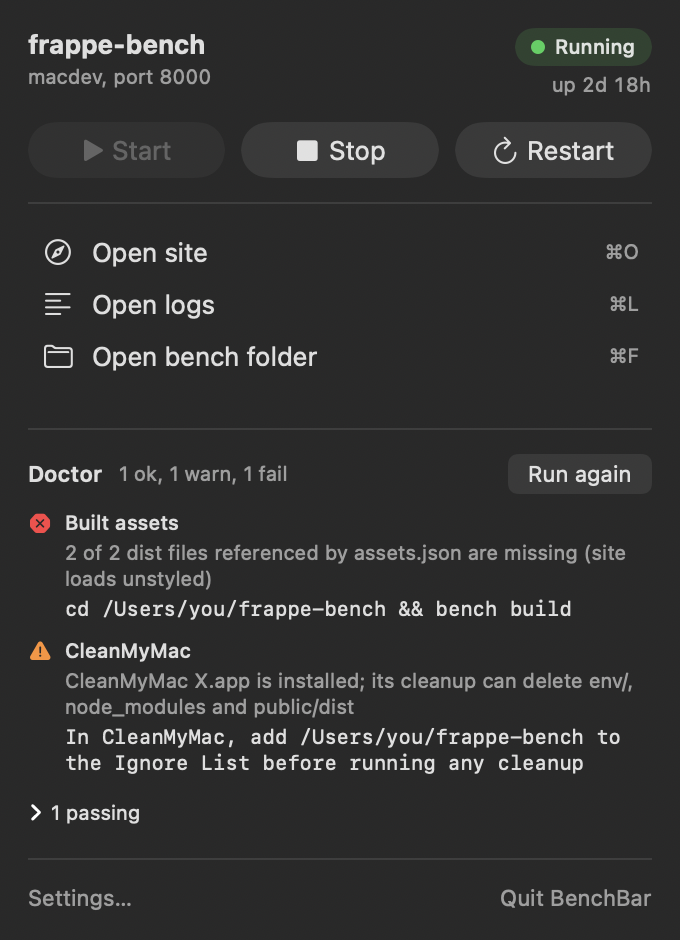
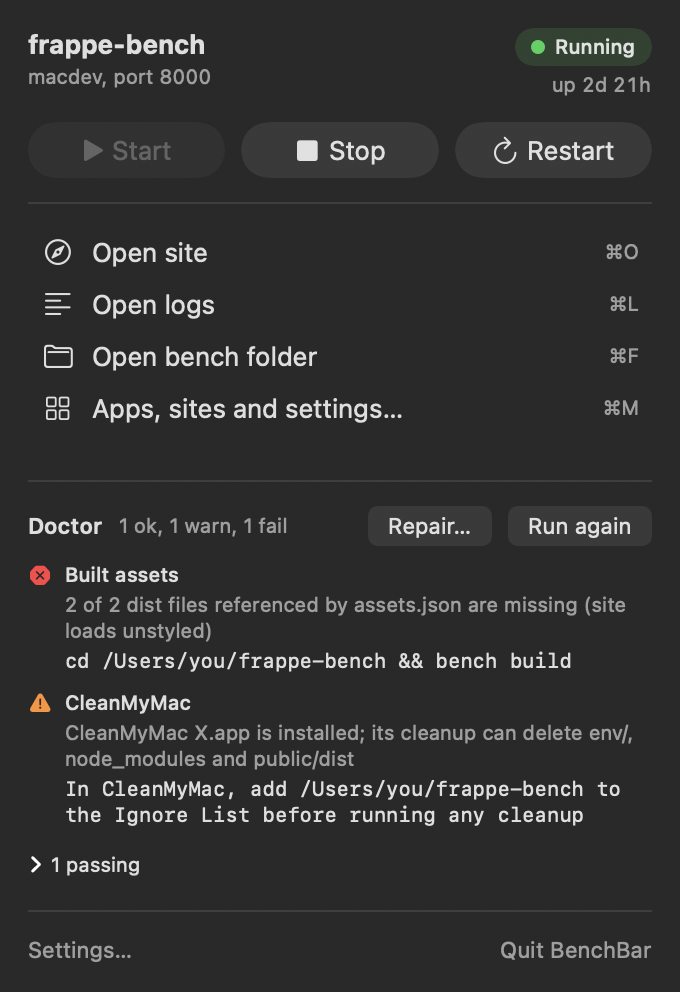
Release 0.5.0
Version 0.5.0 in the CLI and the app, the 0.5.0 changelog in one section, the roadmap, the tester guide with what to try in 0.5, README features and the app section with screenshots of the window and the icon, refreshed popover images.

diff --git a/README.md b/README.md
@@ -1,9 +1,12 @@
+<img src="docs/images/app-icon.png" width="96" alt="The BenchBar icon: a park bench on the run" align="right">
+
 # BenchBar
 
 Local Frappe and ERPNext development benches on macOS. The `benchbar`
 command line tool installs a bench, runs it in the background under
 launchd and keeps it healthy. The BenchBar menu bar app shows each bench
-as a small runner with start, stop and a health check one click away.
+as a small runner with start, stop and a health check one click away, and
+a window for each bench's sites, apps and health.
 
 [![CI](https://github.com/askysh/benchbar/actions/workflows/ci.yml/badge.svg)](https://github.com/askysh/benchbar/actions/workflows/ci.yml)
 [![Release](https://img.shields.io/github/v/release/askysh/benchbar)](https://github.com/askysh/benchbar/releases/latest)
@@ -31,8 +34,20 @@ as a small runner with start, stop and a health check one click away.
 - **Existing benches welcome.** `benchbar adopt` registers a bench you
   already have without touching its apps, sites or databases.
 - **A menu bar app.** State at a glance, start, stop, restart, the site,
-  the logs, a read only doctor, and crash notifications. The app never
-  writes to a bench itself; it runs the CLI and reads its JSON.
+  the logs, a read only doctor, and crash notifications. The BenchBar
+  window adds a page per bench: sites, apps, doctor and Repair. The app
+  never writes to a bench itself; it runs the CLI and reads its JSON.
+- **Several benches side by side.** A v15 and a v16 bench, each with its
+  own ports, sites and scheduler, on one MariaDB.
+- **Apps from anywhere.** From the app registry or any GitHub repository,
+  private ones included (your SSH key or `gh` login), with a changelog
+  before every update.
+- **Made for teams.** A team profile sets up a new bench with your apps
+  and branches; the `benchbar.toml` lockfile keeps everyone's bench the
+  same; `benchbar pull` copies a production site into a local one, email
+  muted and scheduler paused.
+- **For coding agents.** `benchbar mcp` lets Claude Code, Cursor and
+  other agents read and drive your benches.
 - **Shell helpers.** `benchup`, `benchdown`, `benchrestart`,
   `benchstatus`, `benchlogs`, `benchwatch` and friends.
 - **Bug reports without secrets.** `benchbar report` writes a redacted
@@ -252,29 +267,49 @@ reports drift as a warning.
 The runner in the menu bar sleeps when the bench is stopped, walks while
 it starts, runs while it is up (faster when the bench is busy), stumbles
 when it crashes, and shows a question mark when the CLI is missing.
-Reduce Motion shows still poses. The BenchBar window (⌘, or "Apps, sites
-and settings…" in the popover) has a page per bench: add apps from the
-registry or any GitHub repository, add sites, change the default site,
-switch the scheduler, and run doctor and Repair with the plan shown
-first; team profiles and the app's own settings live there too.
-Click the runner for the popover: bench, site,
-state and uptime, Start, Stop, Restart, open the site, the logs or the
-bench folder, and a read only doctor. With more than one bench the runner
-shows the worst state of all of them, and the popover lists every bench
-with its own Start, Stop and Restart and an "n of m up" count; the
-selected bench lists its sites, each with an Open button. Settings has a
-scheduler switch per bench. Keyboard: ⌘U start, ⌘D stop,
-⌘R restart, ⌘O site, ⌘L logs, ⌘F folder, ⌘K doctor.
-bench folder, and a read only doctor. Keyboard: ⌘U start, ⌘D stop,
-⌘R restart, ⌘O site, ⌘L logs (a log window with search and a filter per
-process), ⌘F folder, ⌘K doctor.
+Reduce Motion shows still poses. With more than one bench it shows the
+worst state of all of them.
+
+Click it for the popover: bench, site, state and uptime, Start, Stop,
+Restart, open the site, the logs or the bench folder, and a read only
+doctor with Repair when something is repairable. With more than one
+bench the popover lists every bench with its own buttons and an "n of m
+up" count. Keyboard: ⌘U start, ⌘D stop, ⌘R restart, ⌘O site, ⌘L logs (a
+log window with search and a filter per process), ⌘F folder, ⌘K doctor,
+⌘M the BenchBar window.
+
+<p>
+  <img src="docs/images/window-overview.png" width="420" alt="The BenchBar window: a bench's overview with Start, Stop, Restart, its site and ports, and the scheduler switch">
+  <img src="docs/images/window-apps.png" width="420" alt="A bench's apps: branch, repository, the sites that have each app, Install and Update">
+</p>
+
+The BenchBar window (⌘M, "Apps, sites and settings…" in the popover, or
+open BenchBar again from Finder or Spotlight) has a page per bench:
+
+- **Overview**: start, stop, restart, the site and ports, and the
+  scheduler switch.
+- **Sites**: add a site (it asks for the Administrator password), make
+  one the default, open any of them.
+- **Apps**: add an app from the registry or any GitHub URL, install it on
+  a site, and update it after reading the changelog. Right click a bench
+  in the sidebar for its actions.
+- **Health**: doctor's checks, and Repair with its plan shown before
+  anything changes and each step as it runs.
+
+Above the benches: General (open at login, notifications, which
+`benchbar` the app runs, the keyboard shortcuts), Menu Bar (the runner,
+with a live preview and custom runners, see
+[docs/runners.md](docs/runners.md)), Team Profiles and About.
+
+<p>
+  <img src="docs/images/window-health.png" width="420" alt="A bench's health: doctor's warnings with their fixes, Run Doctor and Repair">
+  <img src="docs/images/window-general.png" width="420" alt="General settings: startup, notifications, the command line tool and keyboard shortcuts">
+</p>
 
 On first run the app looks for the CLI in `~/.local/bin/benchbar`, then in
 Homebrew's folders, and asks once with a file picker if it finds none.
 macOS asks whether BenchBar may send notifications; allow it for the
-crash alerts. Settings has two built in runners with a live preview,
-custom runners ([docs/runners.md](docs/runners.md)), launch at login,
-notifications and the CLI path.
+crash alerts.
 
 The app does not write plists, edit bench files, or run `bench`, `brew`
 or `launchctl`. Every button runs `benchbar ... --json` and reads the

diff --git a/CHANGELOG.md b/CHANGELOG.md
@@ -2,14 +2,17 @@
 
 All notable changes to this project are documented here.
 
-## 0.4.0 - 2026-09-26
+## 0.5.0 - 2026-09-26
 
-Frappe v16 is a first class profile, and more than one bench runs on the
-same Mac: each with its own ports, sites, settings and scheduler choice,
-side by side in the menu bar. Verified on a real Mac with a v15 and a v16
-bench running at once (docs/DECISIONS.md, "the v16 bench on a real Mac").
+BenchBar grows from a start and stop button into the place you run your
+benches from: a window with every bench's sites, apps and health, Repair
+from the app, a log window, apps from any GitHub repository (private
+ones too), team profiles and a lockfile for the whole team, `benchbar
+pull` for a production copy, and `benchbar mcp` for coding agents. A new
+app icon, and the window uses the macOS 27 tab style and Liquid Glass
+buttons (older macOS versions get the classic look).
 
-### Added (0.5)
+### Added: the app
 
 - **The BenchBar window** replaces the sparse Settings window: General,
   Menu Bar, Team Profiles and About, then a page per bench with Overview
@@ -19,19 +22,9 @@ bench running at once (docs/DECISIONS.md, "the v16 bench on a real Mac").
   site, update after a changelog preview) and Health (doctor, and Repair
   with the plan first and a live step list). The popover links into it
   (⌘M) and offers Repair when doctor found something repairable.
-
-- `benchbar mcp`: a Model Context Protocol server on stdio (stdlib only
-  Python) with `benchbar_list`, `benchbar_status`, `benchbar_doctor`,
-  `benchbar_logs_tail`, `benchbar_site_list`, `benchbar_up`,
-  `benchbar_down` and `benchbar_restart`, each backed by the CLI's JSON.
-- `benchbar logs --json` with `-nN` and `--process NAME`.
-
-### Added (0.5)
-
-- `benchbar repair --json` streams a plan, a step event per action and a
-  done event with the exit code; `--dry-run --json` prints only the plan.
-
-### Added (0.5)
+- A new app icon: the menu bar runner, a park bench on the run, drawn
+  for Icon Composer (`macos/BenchBar/Resources/AppIcon.icon`,
+  `scripts/app-icon.py`).
 
 - A log window per bench (⌘L): follows `logs/bench.log` with smart
   scroll, search with a match count and next and previous (⌘G, ⇧⌘G), a
@@ -39,7 +32,15 @@ bench running at once (docs/DECISIONS.md, "the v16 bench on a real Mac").
   log, clear, select and copy, and Open in Terminal. It survives the
   runner's log rotation and keeps at most 5000 lines.
 
-### Added (0.5)
+### Added: the command line
+
+- `benchbar mcp`: a Model Context Protocol server on stdio (stdlib only
+  Python) with `benchbar_list`, `benchbar_status`, `benchbar_doctor`,
+  `benchbar_logs_tail`, `benchbar_site_list`, `benchbar_up`,
+  `benchbar_down` and `benchbar_restart`, each backed by the CLI's JSON.
+- `benchbar logs --json` with `-nN` and `--process NAME`.
+- `benchbar repair --json` streams a plan, a step event per action and a
+  done event with the exit code; `--dry-run --json` prints only the plan.
 
 - App commands. `benchbar app list [--json] [--no-sites]` shows every
   app with its branch, commit, local changes, shallow clone, version,
@@ -92,7 +93,7 @@ bench running at once (docs/DECISIONS.md, "the v16 bench on a real Mac").
   `GIT_TERMINAL_PROMPT=0` and SSH in batch mode, so a private repo fails
   at once instead of waiting on a prompt.
 
-### Added (0.5)
+### Added: pull
 
 - `benchbar pull HOST:SITE --as NAME` copies a production site over SSH
   into a new local site. It uses the latest backup that already exists on
@@ -119,6 +120,41 @@ bench running at once (docs/DECISIONS.md, "the v16 bench on a real Mac").
   set downloaded by hand (Frappe Cloud); `--dry-run` connects read only
   and prints the plan; `--json` streams `plan`, `gate`, `progress`,
   `step` and `done` events (docs/json-schema.md).
+
+### Changed
+
+- The window's settings panes are laid out like System Settings: a
+  header per pane, Startup, Notifications, Command line tool and
+  Keyboard shortcuts on General, a runner preview on Menu Bar. The
+  sidebar's benches have a context menu (start, stop, restart, open,
+  show, copy path).
+- `app add URL` for an app in `config/apps.tsv` follows its branch there
+  when the repository has it, instead of the repository's default
+  branch, so doctor does not warn about an app it just added. Raven's
+  registry entry points at `github.com/frappe/raven`.
+- `bench new-site` gets the MariaDB root and Administrator passwords on
+  stdin, never in its arguments.
+- CI runs the CLI tests in three parallel macOS shards (about 4 minutes
+  per pull request, from about 13); the Linux job is gone.
+
+### Fixed
+
+- `app update` refuses to run when a site's app list cannot be read, so
+  it never skips a site's backup or migrate.
+- `pull` into a running bench pauses the bench's scheduler until the
+  copy has its own `pause_scheduler` and `mute_emails`.
+- A git repository or branch from a team profile or lockfile can no
+  longer be read as a git option (`--` everywhere, values starting with
+  `-` refused).
+- The window no longer jumps wider when you open General, and a
+  change's result shows only on the page it belongs to.
+
+## 0.4.0 - 2026-09-26
+
+Frappe v16 is a first class profile, and more than one bench runs on the
+same Mac: each with its own ports, sites, settings and scheduler choice,
+side by side in the menu bar. Verified on a real Mac with a v15 and a v16
+bench running at once (docs/DECISIONS.md, "the v16 bench on a real Mac").
 
 ### Added
 

diff --git a/ROADMAP.md b/ROADMAP.md
@@ -36,36 +36,14 @@ as the bench sees it, honcho without `pkg_resources`, stale processes),
 and the app with a bench list, the worst state in the menu bar and the
 sites of each bench.
 
-## Next: 0.5, the app does more, apps and team profiles
-
-A bigger release: the app work, and everything a team needs to share one
-way of setting up benches.
-
-- Repair from the app: the plan in a sheet, then a live step list, from
-  `benchbar repair --json`, which streams one event per line.
-- A log viewer window: follow with smart scroll, search, a filter per
-  process (web, worker, socketio, schedule, redis), errors tinted, the
-  previous log one click away.
-- `benchbar mcp`: a Model Context Protocol server over stdio, so coding
-  agents can list benches, read status, doctor and logs, and start, stop
-  or restart a bench. Nothing that repairs, installs or needs `sudo`.
-- App installs: `benchbar app list`, `app add` from the app registry or
-  any GitHub repo, public or private (SSH keys and host aliases),
-  `app install` on a site, and `app update` for one app with a changelog
-  preview and a backup before `migrate`. Never `bench update`.
-- Team profiles: an org's recipe (base profile, apps with repos and
-  branches, site defaults) in a TOML file on the Mac or in the team's own
-  config repo, never in BenchBar's code. `benchbar profile create NAME
-  --from-bench PATH` turns an existing bench into one, and
-  `benchbar install --profile NAME` uses it like a built in profile.
-- A team lockfile, `benchbar.toml`, pinning the profile, bench and app
-  branches or commits: `benchbar lock write`, `lock check` (also in
-  doctor) and `lock apply`, so teammates get identical benches.
-- `benchbar pull`: a production site into a new local site over SSH. It
-  uses the latest backup on the server unless asked to take one, carries
-  the encryption key over without printing it, brings missing apps in at
-  the production branch first, and mutes email and the scheduler on the
-  copy.
+**0.5, the app does more, apps and team profiles.** The BenchBar window
+with a page per bench (sites, apps, doctor and Repair with its plan
+first), a log window, `benchbar repair --json`, `benchbar mcp` for coding
+agents, app installs and updates from the registry or any GitHub repo
+(private ones too), team profiles kept outside BenchBar, the
+`benchbar.toml` team lockfile, `benchbar pull` for a production copy
+with the encryption key carried over and email and the scheduler off, a
+new app icon, and the macOS 27 look.
 
 ## Later
 
@@ -73,9 +51,9 @@ way of setting up benches.
 DMG, a cask in `askysh/homebrew-tap`, Sparkle updates, a documentation
 site, and a launch post on discuss.frappe.io.
 
-**0.7, the app for sites and apps.** Backup and restore from the app,
-dropping a site with a backup first, app installs, team profiles and
-pulls in the app, a first run wizard, profile switching per bench.
+**0.7, the app for sites.** Backup and restore from the app, dropping a
+site with a backup first, pull and the lockfile in the app, a first run
+wizard, profile switching per bench.
 
 **1.0.** A stable JSON API and runner format, an official Homebrew cask,
 full doctor coverage for v15 and v16.

diff --git a/docs/testing.md b/docs/testing.md
@@ -71,6 +71,35 @@ Things worth checking:
 Everything is idempotent: run `benchbar install`, `repair` or `adopt`
 twice and the second run says `unchanged`.
 
+### New in 0.5, worth a try
+
+- **The BenchBar window**: ⌘M in the popover (or open BenchBar again from
+  Spotlight). Each bench has Overview, Sites, Apps and Health. Right
+  click a bench in the sidebar for its actions.
+- **Add an app**: Apps, then **Add App…**. Pick one from the list or
+  paste a GitHub URL; a private repo works when `git clone` of it works
+  in your Terminal (SSH key or `gh auth login`). It shows the plan, then
+  clones, installs on the site you picked and builds.
+- **Update an app**: **Update…** on an app shows the commits it would
+  take before anything changes, then backs up every site that has the
+  app, fast forwards, migrates and builds.
+- **Repair from the app**: Health, then **Repair…**. It lists what it
+  would do before it does it.
+- **The log window**: ⌘L, with search (⌘G for the next match) and a filter per process.
+- **A second bench**: `benchbar install --profile v16-lts --bench-dir
+  ~/v16-bench` puts a Frappe v16 bench next to your first one, on its own
+  ports; both show up in the menu bar.
+- **Your team's profile**: `benchbar profile create myteam --from-bench
+  ~/frappe-bench` writes `~/.config/benchbar/profiles/myteam.toml` from
+  a bench you already have (it only reads the bench). A teammate with
+  that file runs `benchbar install --profile myteam`.
+- **A coding agent**: `claude mcp add benchbar -- benchbar mcp`, then ask
+  it how your benches are doing.
+
+Coming from 0.4: re-run the install line above to update, then run
+`benchbar doctor`. If it says the runner script is outdated, `benchbar
+repair` rewrites it (it asks first).
+
 ## 3. Send a report
 
 Whether it worked or not, run:

diff --git a/docs/DECISIONS.md b/docs/DECISIONS.md
@@ -243,6 +243,12 @@ Checked in frappe `version-16` at 012667b and bench `develop` at c9d1250 (Septem
 - The app's repair sheet applies stream events on the main actor in order, through one `AsyncStream`, so a late step event can never overwrite a failed run.
 - Codex on the pull request: `app update` refuses to run when any site's `list-apps` fails, since a stale list could skip a site's backup or migrate. `pull` into a running bench sets `pause_scheduler` in `common_site_config.json` before the restore and removes it once the copy has its own `pause_scheduler` and `mute_emails`, so the bench's scheduler never sees the production copy unguarded; a bench already paused by hand is left alone, and a pull that stops halfway leaves the bench paused and says how to resume. The test runner kills a timed out test's whole process tree, collected before anything dies.
 
+## 0.5: found on the real Mac before the release
+
+- `app add URL` for an app `config/apps.tsv` knows follows that branch when the repository has it (Raven added by its URL came in on `develop`, the repository default, and doctor then warned that it was off `main`). A URL for an unknown app still takes the default branch; `--branch` always wins.
+- Raven moved to `github.com/frappe/raven`; the registry points there (the old URL redirects).
+- The app reads `app list` with the 90 second limit, not 20: at app start it runs next to status and doctor for every bench, and it makes several git calls per app.
+
 # The easy install run (v0.3)
 
 ## Setup and environment

diff --git a/docs/runners.md b/docs/runners.md
@@ -7,8 +7,8 @@ and PNG frames. A working example with the script that drew it is in
 
 ## Install one
 
-1. Open BenchBar Settings (right click the runner, Settings, or ⌘, in the popover).
-2. Under Menu bar runner, click **Import Runner…**.
+1. Open the BenchBar window (⌘M or "Apps, sites and settings…" in the popover) and pick **Menu Bar**.
+2. Under Runner, click **Import…**.
 3. Choose the runner folder, or a `.zip` of it.
 
 BenchBar checks it, copies it to
